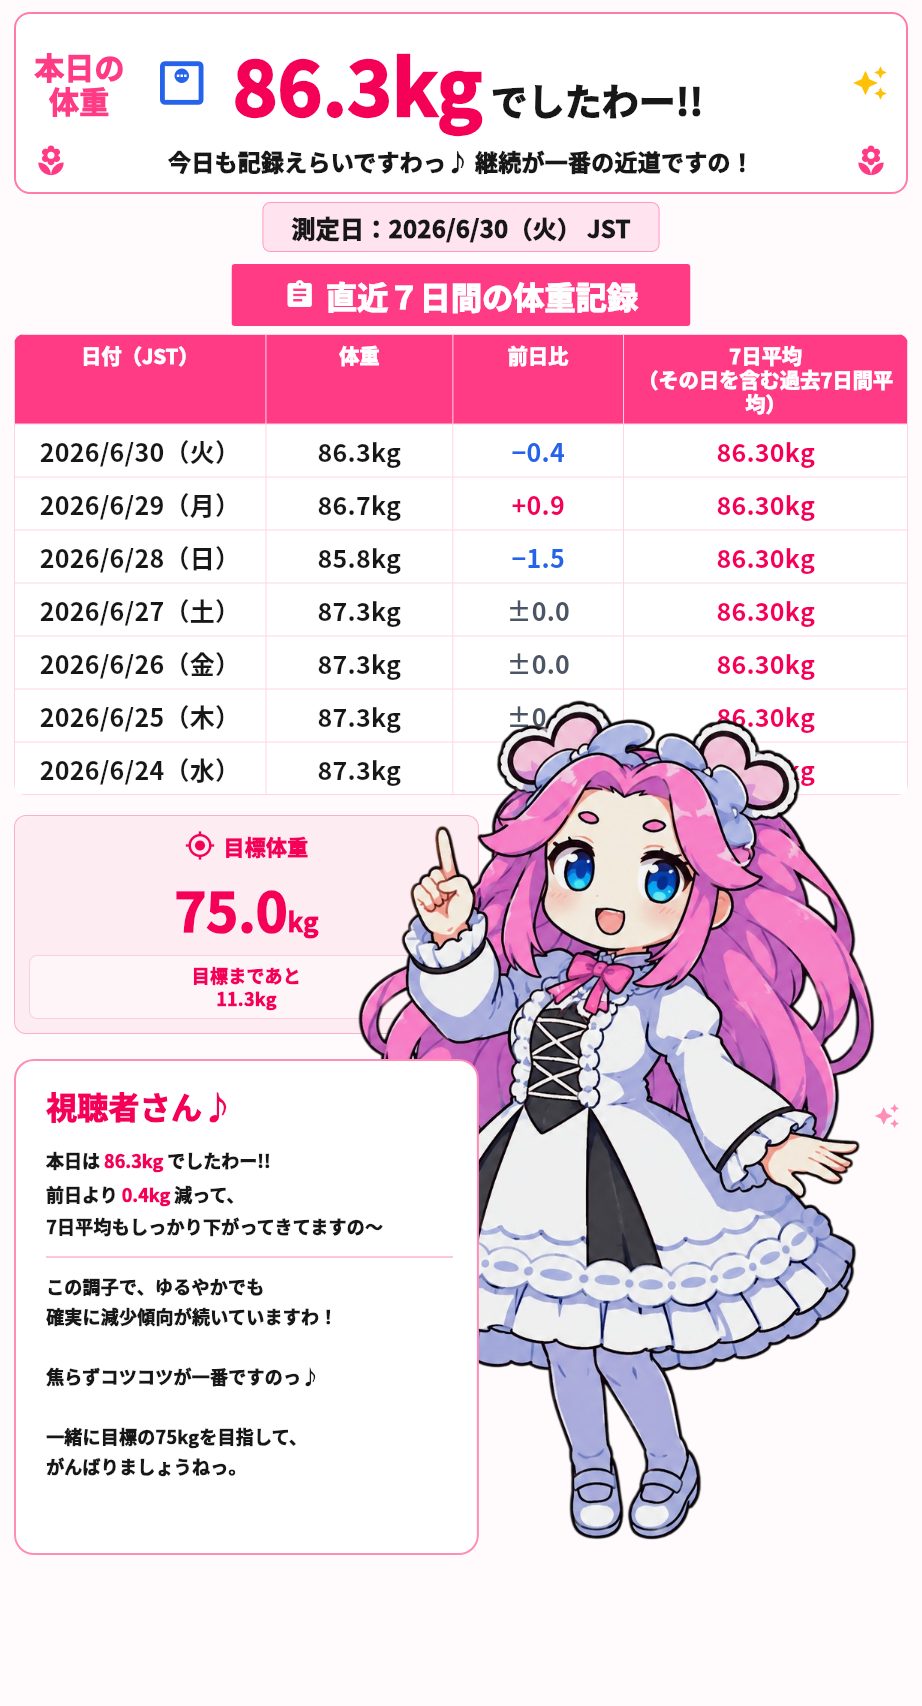
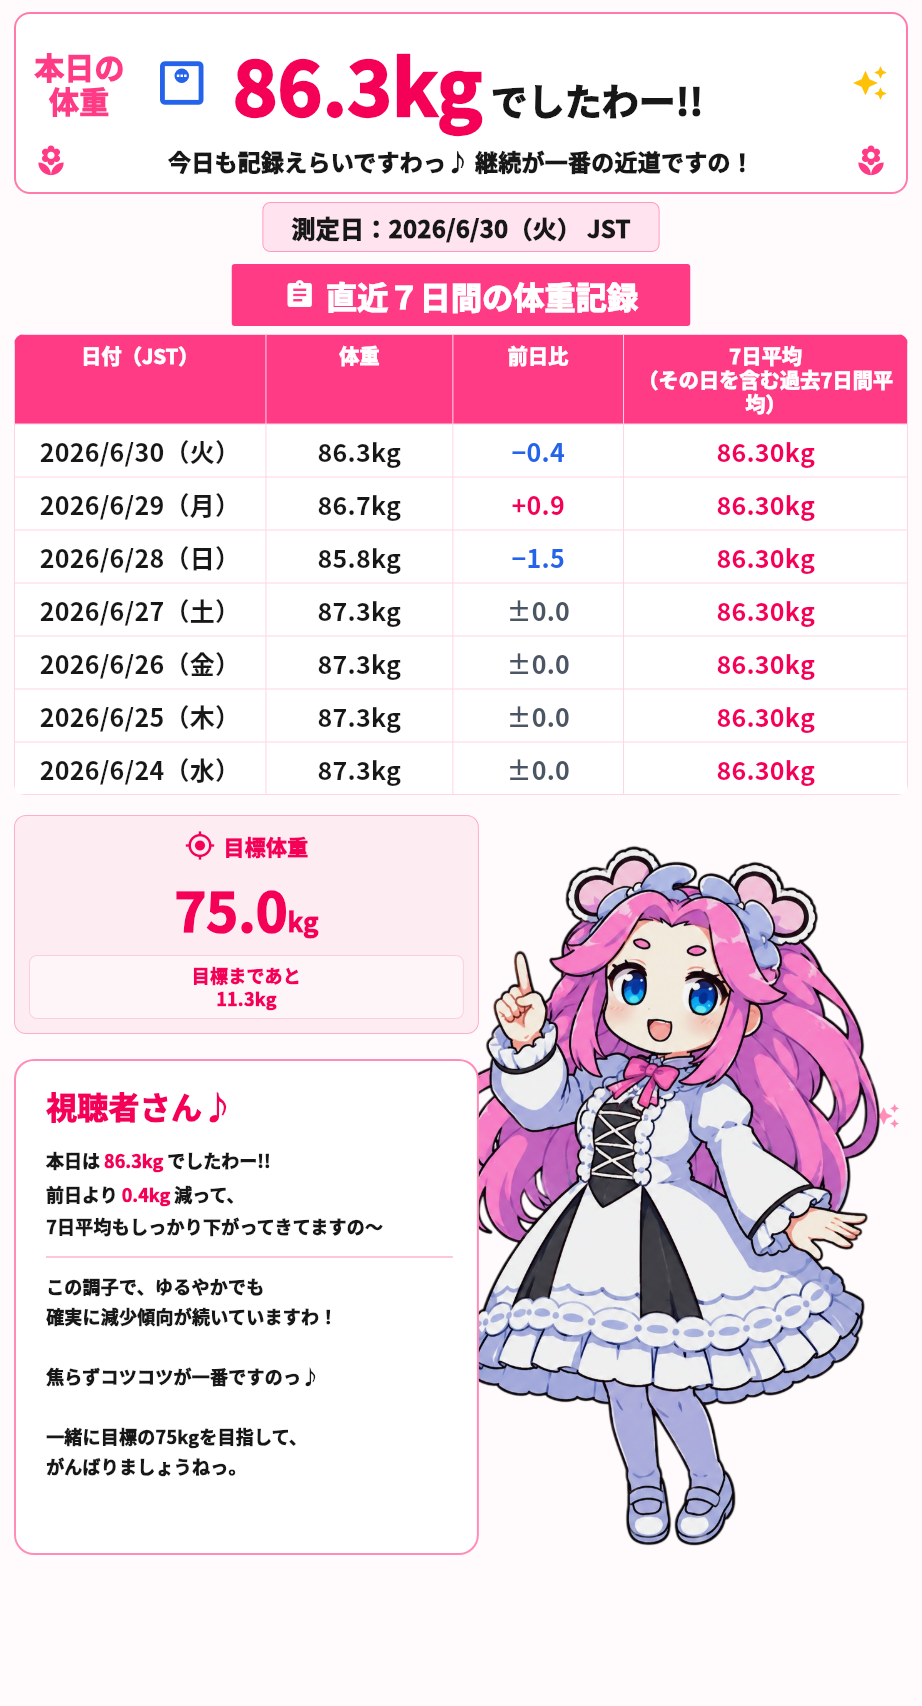
Reduce report character scale

Changed region(s): [[0.3644, 0.4039, 0.9718, 0.932]]

diff --git a/lib/screens/report_screen.dart b/lib/screens/report_screen.dart
@@ -8,7 +8,7 @@ const _reportPink = Color(0xFFFF3B86);
 const _deepPink = Color(0xFFF50057);
 const _blue = Color(0xFF2563EB);
 const _ink = Color(0xFF171717);
-const _reportCharacterScale = 1.8;
+const _reportCharacterScale = 1.5;
 
 class ReportScreen extends ConsumerWidget {
   const ReportScreen({super.key});
